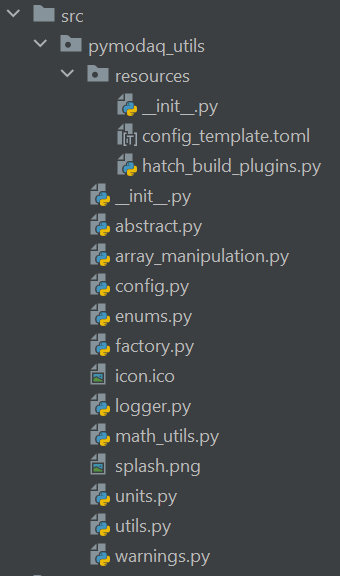
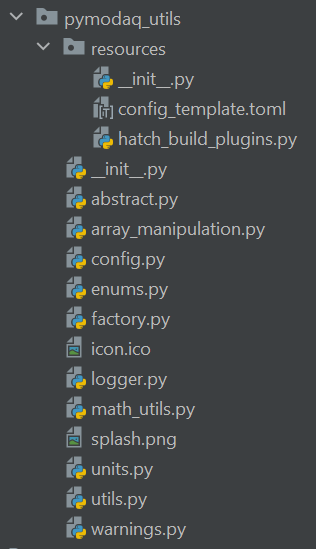
[What's news v5] added and fixes all the module tree images.

diff --git a/docs/src/developer_folder/whats_new45.rst b/docs/src/developer_folder/whats_new45.rst
@@ -59,7 +59,7 @@ Figure :numref:`pymodaq_data_hierarchy` show the layout of this package.
 
 .. _pymodaq_data_hierarchy:
 
-.. figure:: /image/pymodaq_utils_files.png
+.. figure:: /image/pymodaq_data_files.png
    :width: 200
 
    Layout of the ``data`` module
@@ -70,6 +70,14 @@ pymodaq_gui
 ------------
 Set of Qt widgets and graphical components for the PyMoDAQ ecosystem.
 The two main categories are : Managers, Plotting
+
+Figure :numref:`pymodaq_gui_hierarchy` show the layout of this package.
+
+.. _pymodaq_gui_hierarchy:
+
+.. figure:: /image/pymodaq_gui_files.png
+   :width: 200
+
 
 :doc:`Manager</api/api_utility_modules/managers>`
 
